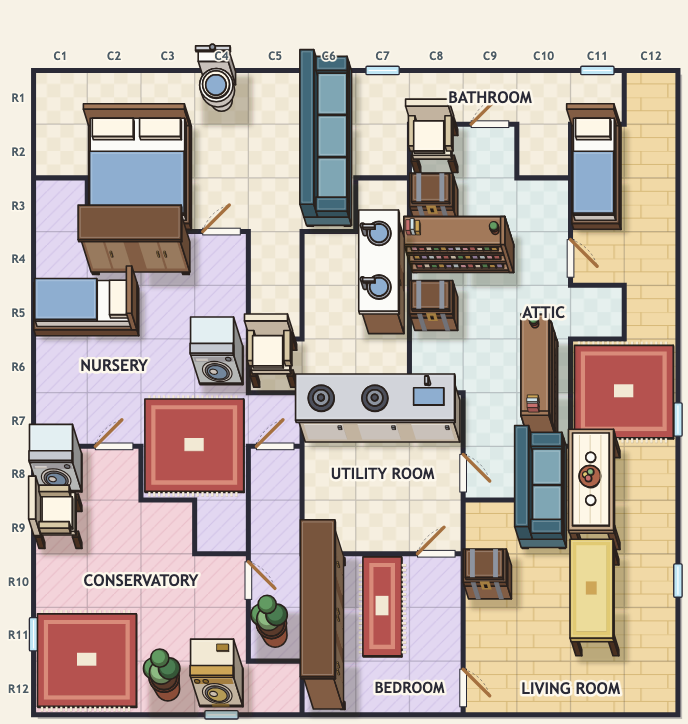
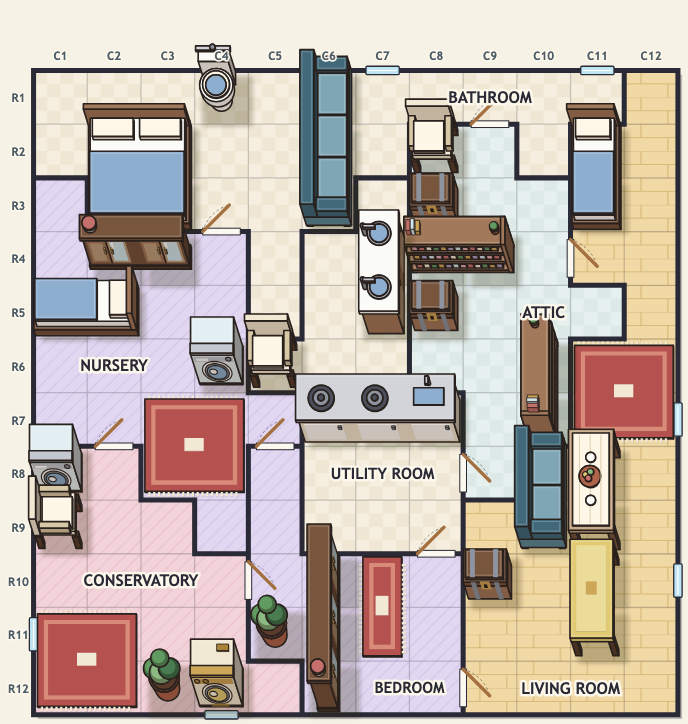
fix(play): board height follows the drawing's aspect (desktop overflow); cabinet and wardrobe redrawn as tall cupboards (SLAY-17.4)
The 44 unit headroom made the board taller than wide while play.css sized it as a square, so the bottom was cut on desktop: boardAspect from the viewBox
is now --board-aspect and every height budget divides by it. The cabinet (the Simpshouse sideboard read flat) is a tall sage-green cupboard with
panelled and glass doors; the wardrobe a walnut one with a mirror door. Cupboards added to the confusable audit. Desktop fit check in the looks driver.

Changed region(s): [[0.4273, 0.6989, 0.5189, 1.0], [0.0916, 0.2735, 0.3052, 0.395]]

diff --git a/docs/verification/looks.ts b/docs/verification/looks.ts
@@ -9,6 +9,8 @@
 //   - the Legend swatches show every object whole (no block, no shadow clipped at the svg edge);
 //   - the play loop through real touch events: a note, undo, an X, a placement, hints 1-3, a complete-but-wrong board, the solved board and
 //     the finish overlay;
+//   - desktop windows (1280x720, 1366x768, 1440x900, 1920x1080, 1280x600) with 6x6, 9x9 and 12x12 boards, row and column numbers on and off: the whole board
+//     (headroom and bottom numbers included) lies inside the window, no page scroll (ONLY=desktop runs just these);
 //   - the room labels draw above people, crosses and notes (DOM order) on a crowded board; screenshots of it.
 // Usage (repo root):
 //   bun run build && bunx vite preview --port 5461 &
@@ -24,7 +26,7 @@ import { puzzleFingerprint } from '../../src/game/fingerprint.ts'
 import { saveKey, SAVE_VERSION } from '../../src/game/persistence.ts'
 import { dailyId } from '../../src/game/daily/ids.ts'
 import { roomLabelLayout } from '../../src/render/scene/labels.ts'
-import { PLAY_DATE, dayOn, seedStorage } from './daily.ts'
+import { DAYS, PLAY_DATE, dayOn, seedStorage } from './daily.ts'
 
 const CHROME = process.env.CHROME ?? '/Applications/Google Chrome.app/Contents/MacOS/Google Chrome'
 const PORT = Number(process.env.CDP_PORT ?? 9561)
@@ -206,6 +208,27 @@ async function paintOrder(date: string) {
     if (!ok) bad.push(`${p.id} before ${o.id}`)
   })
   check(`${day.size}x${day.size}: ${r.objects.length} objects are painted flat first, then by front row and column`, r.objects.length === sc.objects.length && bad.length === 0, bad.slice(0, 4).join('; '))
+}
+
+/** Desktop windows (mouse, no touch): the whole board, headroom and bottom axis labels included, must lie inside the window without page scroll. */
+const DESKTOPS: [number, number][] = [[1280, 720], [1366, 768], [1440, 900], [1920, 1080], [1280, 600]]
+const desktopRows: string[] = []
+async function desktopFit(w: number, h: number) {
+  await send('Emulation.setDeviceMetricsOverride', { width: w, height: h, deviceScaleFactor: 1, mobile: false })
+  await send('Emulation.setTouchEmulationEnabled', { enabled: false })
+  for (const size of [6, 9, 12]) {
+    const day = DAYS.find((d) => d.size === size && d.date > '2026-11-01')!
+    for (const axis of [true, false]) {
+      await seed(day.date, `localStorage.setItem('slaydoku:play-axis-labels', '${axis}')`)
+      await load('play')
+      await sleep(400)
+      const r = (await evaluate(`(() => { const b = document.querySelector('.play-board svg').getBoundingClientRect(); const de = document.documentElement; return { top: b.top, bottom: b.bottom, left: b.left, right: b.right, w: b.width, h: b.height, iw: innerWidth, ih: innerHeight, sh: de.scrollHeight, sw: de.scrollWidth } })()`)) as { top: number; bottom: number; left: number; right: number; w: number; h: number; iw: number; ih: number; sh: number; sw: number }
+      const ok = r.top >= -0.5 && r.bottom <= r.ih + 0.5 && r.left >= -0.5 && r.right <= r.iw + 0.5 && r.sh <= r.ih + 1 && r.sw <= r.iw + 1
+      check(`desktop ${w}x${h} ${size}x${size} axis ${axis ? 'on' : 'off'}: the whole board is inside the window, no page scroll`, ok, JSON.stringify({ top: Math.round(r.top), bottom: Math.round(r.bottom), ih: r.ih, boardW: Math.round(r.w), boardH: Math.round(r.h), sh: r.sh }))
+      desktopRows.push(`| ${w}x${h} | ${size}x${size} | ${axis ? 'on' : 'off'} | ${Math.round(r.w)} x ${Math.round(r.h)} | ${Math.round(r.bottom)} / ${r.ih} | ${ok ? 'fits' : 'CUT'} |`)
+      if (axis && (size === 12 || size === 9) && (w === 1280 && (h === 720 || h === 600))) await shotBoard(`desktop-${w}x${h}-${size}x${size}`, true)
+    }
+  }
 }
 
 const sizes: string[] = []
@@ -427,6 +450,18 @@ async function playLoop(w: number, h: number) {
   await shotBoard(`${LOOK}-${w}x${h}-solved`, true)
 }
 
+if (process.env.ONLY === 'desktop') {
+  for (const [w, h] of DESKTOPS) {
+    ctx = `${w}x${h}`
+    await send('Page.enable')
+    await send('Runtime.enable')
+    await desktopFit(w, h)
+  }
+  await Bun.write(join(OUT, 'desktop-fit.md'), ['| window | board | numbers | board size px | board bottom / window height | |', '|---|---|---|---|---|---|', ...desktopRows, ''].join('\n'))
+  console.log(`\n${failures.length ? 'FAILURES:\n' + failures.join('\n') : 'all checks passed'}`)
+  chrome.kill()
+  process.exit(failures.length ? 1 : 0)
+}
 for (const [w, h] of VIEWPORTS) {
   ctx = `${w}x${h}`
   await setViewport(w, h)
@@ -441,6 +476,11 @@ for (const [w, h] of VIEWPORTS) {
   await playLoop(w, h)
   if (w <= 390) await zoomPlay()
 }
+for (const [w, h] of DESKTOPS) {
+  ctx = `${w}x${h}`
+  await desktopFit(w, h)
+}
+await Bun.write(join(OUT, 'desktop-fit.md'), ['| window | board | numbers | board size px | board bottom / window height | |', '|---|---|---|---|---|---|', ...desktopRows, ''].join('\n'))
 await Bun.write(join(OUT, 'tap-sizes.md'), ['| viewport | board | middle cell, screen px (w x h) | biggest circle in it, px |', '|---|---|---|---|', ...sizes, ''].join('\n'))
 console.log(`\n${failures.length ? 'FAILURES:\n' + failures.join('\n') : 'all checks passed'}`)
 chrome.kill()

diff --git a/src/render/looks/modelsLiving.ts b/src/render/looks/modelsLiving.ts
@@ -133,25 +133,58 @@ export function chest(): SolidModel {
   ])
 }
 
-/** Sideboard: one door per cell with a knob, a top slab and short legs. */
+/**
+ * Cabinet (kast): a tall cupboard, 84 high before what stands on it. A dark plinth, a sage-green painted body (no other furniture is green), panelled
+ * doors under glass doors with a white cross of bars, brass knobs, a crown, and a vase and books on top. The doors, knobs and crown are on the front, the crown
+ * and the things on top show from every side; shallow and centred in its cell. Not a desk (no monitor, no drawers), not a counter (no hob).
+ */
 export function cabinet(cols: number): SolidModel {
   const W = cols * 100
-  const D = 56
-  const prims: Prim[] = [...legs(W, D, 10, C.woodDark, 10, 6), box(6, 4, W - 12, D - 8, 10, 52, C.woodLight), box(2, 0, W - 4, D, 62, 6, C.cream)]
+  const D = 34
+  const prims: Prim[] = [
+    box(6, 2, W - 12, D - 4, 0, 8, C.woodDeep),
+    box(8, 4, W - 16, D - 8, 8, 68, C.greenLight),
+    box(2, 0, W - 4, D, 76, 8, C.green),
+  ]
   for (let i = 0; i < cols; i++) {
-    prims.push(onFront(i * 100 + 14, D - 4, 72, 16, 40, C.cream), onFront(i * 100 + 20, D - 3.2, 60, 22, 28, C.creamLight), box(i * 100 + 74, D - 5, 6, 3, 38, 8, C.gold, 1.5))
+    const x = i * 100
+    prims.push(
+      onFront(x + 14, D - 4, 72, 12, 28, C.green),
+      onFront(x + 20, D - 3.2, 60, 17, 18, C.greenDark),
+      onFront(x + 14, D - 4, 72, 46, 26, C.sky),
+      onFront(x + 48, D - 3.2, 4, 46, 26, C.white),
+      onFront(x + 14, D - 3.2, 72, 57, 3.5, C.white),
+      onFront(x + 20, D - 3, 14, 62, 4, C.white),
+      box(x + 40, D - 6, 6, 4, 36, 7, C.gold, 1.5),
+      box(x + 54, D - 6, 6, 4, 36, 7, C.gold, 1.5),
+    )
   }
-  return model(cols, 1, shiftY(prims, 22))
+  prims.push(cyl(W - 26, D / 2, 7, 84, 8, C.terracotta, 9), ball(W - 26, D / 2, 96 - 4.5, 4, C.green), box(16, 8, 8, D - 16, 84, 10, C.red, 1.5), box(25, 8, 7, D - 16, 84, 8, C.sky, 1.5))
+  return model(cols, 1, shiftY(prims, 32))
 }
 
-/** Wardrobe: a tall body with a crown on top, a pair of doors per cell with knobs, and feet. */
+/**
+ * Wardrobe (kast to hang clothes in): the tallest piece, 96 high, dark walnut with a plinth, a pair of doors per cell (one with a mirror in it, one
+ * with raised panels), brass handles, a crown and hat boxes on top.
+ */
 export function wardrobe(cols: number, rows: number): SolidModel {
   const W = cols * 100
-  const D = rows === 1 ? 64 : rows * 100 - 24
-  const prims: Prim[] = [box(8, 4, W - 16, D - 8, 4, 86, C.wood), box(4, 0, W - 8, D, 90, 6, C.woodDark), box(10, D - 10, 12, 8, 0, 4, C.woodDeep), box(W - 22, D - 10, 12, 8, 0, 4, C.woodDeep)]
+  const D = rows === 1 ? 44 : rows * 100 - 40
+  const prims: Prim[] = [box(6, 2, W - 12, D - 4, 0, 8, C.woodDeep), box(8, 4, W - 16, D - 8, 8, 70, C.woodDark), box(4, 0, W - 8, D, 78, 7, C.woodDark)]
   for (let i = 0; i < cols; i++) {
-    prims.push(onFront(i * 100 + 14, D - 4, 34, 14, 70, C.woodLight), onFront(i * 100 + 52, D - 4, 34, 14, 70, C.woodLight), box(i * 100 + 42, D - 5, 3, 3, 46, 12, C.gold, 1.2), box(i * 100 + 55, D - 5, 3, 3, 46, 12, C.gold, 1.2))
+    const x = i * 100
+    prims.push(
+      onFront(x + 14, D - 4, 34, 16, 56, C.wood),
+      onFront(x + 19, D - 3.2, 24, 22, 44, C.woodLight),
+      onFront(x + 52, D - 4, 34, 16, 56, C.woodLight),
+      onFront(x + 56, D - 3.2, 26, 22, 48, C.glass),
+      onFront(x + 58, D - 3, 5, 54, 14, C.white),
+      onFront(x + 49, D - 4, 2, 14, 60, C.ink),
+      box(x + 42, D - 6, 3, 4, 40, 12, C.gold, 1.2),
+      box(x + 55, D - 6, 3, 4, 40, 12, C.gold, 1.2),
+    )
   }
+  prims.push(cyl(24, D / 2, 12, 85, 8, C.cream, 12), cyl(24, D / 2, 13, 92, 3.5, C.red, 13))
   return model(cols, rows, shiftY(prims, (rows * 100 - D) / 2))
 }
 

diff --git a/src/ui/play/PlayScreen.tsx b/src/ui/play/PlayScreen.tsx
@@ -1,11 +1,11 @@
 import { useEffect, useMemo, useRef, useState } from 'react'
-import type { ReactNode } from 'react'
+import type { CSSProperties, ReactNode } from 'react'
 import type { PortraitLook } from '../../content/cast/index.ts'
 import type { Cell, Puzzle } from '../../engine/model/index.ts'
 import { createGameStore, defaultStorage, isPlaced, type GameStore, type StorageLike } from '../../game/index.ts'
 import { useLocale } from '../../locale/index.ts'
 import type { ThemeIconId } from '../../render/icons/themes/types.ts'
-import type { FloorPattern } from '../../render/scene/index.ts'
+import { boardAspect, type FloorPattern } from '../../render/scene/index.ts'
 import { useAxisLabels } from './axisLabels.ts'
 import { Board } from './Board.tsx'
 import { HELP_CONTENT } from '../../content/help/help.ts'
@@ -230,7 +230,7 @@ export function PlayScreen({ puzzle: given, levelId, title: givenTitle, back, ro
   }
 
   return (
-    <div className="play" data-status={state.status} data-hint={hintLevel !== 0 ? '' : undefined}>
+    <div className="play" data-status={state.status} data-hint={hintLevel !== 0 ? '' : undefined} style={{ '--board-aspect': boardAspect(puzzle.scene, showAxisLabels) } as CSSProperties}>
       <header className="play-header">
         {/* SLAY-9.25: the visible "Back"/"Terug" text is its own span, not a bare text node, so
             the landscape column rule in play.css can drop it (keeping just the "‹") there. On a

diff --git a/src/ui/play/play.css b/src/ui/play/play.css
@@ -321,7 +321,7 @@
   justify-self: center;
   width: 100%;
   /* portrait: never taller than the screen leaves room for (header + cards strip) */
-  max-width: calc(100dvh - 380px);
+  max-width: calc((100dvh - 380px) / var(--board-aspect, 1));
   min-width: 280px;
 }
 
@@ -1175,7 +1175,9 @@ button.play-legend__row:focus-visible {
        header it stacks above the board, its 10px row-gap, its own bottom padding) instead of one
        guessed number -- the old flat 76px undercounted the real total and clipped the board's last
        row. */
-    --board: min(calc(100dvh - var(--play-top-clearance) - var(--play-header-height) - 10px - max(12px, env(safe-area-inset-bottom))), 64vw);
+    /* The board is --board wide and --board * --board-aspect high (PlayScreen sets the aspect from the drawing's own viewBox: the headroom above the
+       grid makes it taller than wide), so the height budget is divided by it. */
+    --board: min(calc((100dvh - var(--play-top-clearance) - var(--play-header-height) - 10px - max(12px, env(safe-area-inset-bottom))) / var(--board-aspect, 1)), 64vw);
     height: 100vh;
     height: 100dvh;
     overflow: hidden;
@@ -1422,7 +1424,7 @@ button.play-legend__row:focus-visible {
   }
 
   .play {
-    --board: var(--play-board);
+    --board: calc(var(--play-board) / var(--board-aspect, 1));
     gap: 8px 12px;
     padding-bottom: max(8px, env(safe-area-inset-bottom));
     grid-template-rows: auto auto minmax(0, 1fr);

diff --git a/src/render/icons/contactSheetData.ts b/src/render/icons/contactSheetData.ts
@@ -24,6 +24,7 @@ export function orientedSolid(type: IconObjectType, themeIcon: ThemeIconId | und
 export const CONFUSABLE_GROUPS: readonly { title: string; items: readonly { type: IconObjectType; themeIcon?: ThemeIconId; variant: string }[] }[] = [
   { title: 'Rug, table and bookshelf', items: [{ type: 'rug', variant: '2x1' }, { type: 'table', variant: '2x1' }, { type: 'bookshelf', variant: '2x1' }] },
   { title: 'Tables: table, dining table, garden table, desk', items: [{ type: 'table', variant: '2x1' }, { type: 'diningTable', variant: '2x1' }, { type: 'gardenTable', variant: '2x1' }, { type: 'desk', variant: '2x1' }] },
+  { title: 'Cupboards and counters: cabinet, wardrobe, desk, kitchen counter, bookshelf', items: [{ type: 'cabinet', variant: '2x1' }, { type: 'wardrobe', variant: '2x1' }, { type: 'desk', variant: '2x1' }, { type: 'kitchenCounter', variant: '2x1' }, { type: 'bookshelf', variant: '2x1' }] },
   { title: 'Storage: cabinet, wardrobe, chest', items: [{ type: 'cabinet', variant: '2x1' }, { type: 'wardrobe', variant: '2x1' }, { type: 'chest', variant: '1x1' }] },
   { title: 'Laundry: washing machine and dryer', items: [{ type: 'washingMachine', variant: '1x1' }, { type: 'dryer', variant: '1x1' }] },
   { title: 'Bathroom: toilet, sink, shower', items: [{ type: 'toilet', variant: '1x1' }, { type: 'sink', variant: '1x1' }, { type: 'shower', variant: '1x1' }] },

diff --git a/src/render/scene/geometry.test.ts b/src/render/scene/geometry.test.ts
@@ -5,6 +5,7 @@ import {
   AXIS_GUTTER,
   CELL_SIZE,
   MARGIN,
+  boardAspect,
   cellLabel,
   createGeometry,
 } from './geometry.ts'
@@ -45,6 +46,21 @@ describe('createGeometry', () => {
     const g = createGeometry({ width: 4, height: 4 })
     expect(g.origin.y).toBe(MARGIN + HEADROOM)
     expect(HEADROOM).toBeGreaterThan(30)
+  })
+
+  it('derives the height over width of the drawing from the viewBox, headroom included', () => {
+    for (const size of [6, 7, 9, 12]) {
+      for (const axis of [true, false]) {
+        const gutter = axis ? AXIS_GUTTER : 0
+        const grid = size * CELL_SIZE
+        const width = 2 * MARGIN + gutter + grid
+        expect(boardAspect({ width: size, height: size }, axis)).toBeCloseTo((2 * MARGIN + gutter + HEADROOM + grid) / width, 10)
+        expect(boardAspect({ width: size, height: size }, axis)).toBeGreaterThan(1)
+      }
+    }
+    // A 9x9 board with the numbers on is 7 percent taller than wide; a 12x12 board 5.4 percent.
+    expect(boardAspect({ width: 9, height: 9 }, true)).toBeCloseTo(1.07, 2)
+    expect(boardAspect({ width: 12, height: 12 }, true)).toBeCloseTo(1.054, 3)
   })
 
   it('formats 1-based cell labels', () => {

diff --git a/src/ui/play/PlayScreen.test.tsx b/src/ui/play/PlayScreen.test.tsx
@@ -508,3 +508,13 @@ describe('the hint bar slot in the play grid (CAD-4.34 layout stays)', () => {
     expect(css.match(/\.play-hint \{[^}]*\}/)?.[0]).toContain('grid-area: hint')
   })
 })
+
+describe('the board fits the screen (SLAY-17.4)', () => {
+  it("hands the drawing's height over width to the layout, and play.css divides every height budget by it", async () => {
+    const html = renderToStaticMarkup(<PlayScreen puzzle={tutorial} levelId="test" storage={null} now={() => 0} />)
+    expect(html).toMatch(/class="play"[^>]*style="--board-aspect:1\.\d+/)
+    const css = (await import('node:fs')).readFileSync(new URL('./play.css', import.meta.url), 'utf8')
+    // Portrait width cap, landscape --board and short landscape --board: each one reads the aspect.
+    expect(css.match(/var\(--board-aspect, 1\)/g)?.length).toBe(3)
+  })
+})

diff --git a/src/render/scene/geometry.ts b/src/render/scene/geometry.ts
@@ -79,6 +79,15 @@ export function createGeometry(size: Pick<Scene, 'width' | 'height'>, options: G
   }
 }
 
+/**
+ * Height over width of the drawing (its viewBox) for a board of `size`. A bare square grid would be 1; the headroom above the grid makes it a
+ * little more, so the layout (play.css reads it as `--board-aspect`) can divide the height it has by it and never cut off the bottom row.
+ */
+export function boardAspect(size: Pick<Scene, 'width' | 'height'>, axisLabels: boolean): number {
+  const { width, height } = createGeometry(size, { axisLabels }).viewBox
+  return height / width
+}
+
 /** 1-based "r1c1" notation used by the official puzzles. */
 export function cellLabel(cell: Cell): string {
   return `r${cell.row + 1}c${cell.col + 1}`

diff --git a/src/render/scene/index.ts b/src/render/scene/index.ts
@@ -3,6 +3,7 @@ export {
   AXIS_GUTTER,
   CELL_SIZE,
   cellLabel,
+  boardAspect,
   createGeometry,
   GRID_LINE_WIDTH,
   MARGIN,

diff --git a/docs/design/looks.md b/docs/design/looks.md
@@ -139,7 +139,8 @@ Contact sheet at phone size (36 px per cell), section "Easily mistaken for each 
 
 | Pair | Problem | Fix |
 |---|---|---|
-| bookshelf, wardrobe, cabinet (all tall brown boxes) | Top face of a 90 high box is as big as its front; turned away, three look the same | Shallow depth (bookshelf 52, cabinet 56, wardrobe 64) centred in the cell; bookshelf has books and a plant on top (visible from every side) and open shelves with spines; cabinet is light wood with cream doors and a cream top; wardrobe is dark with a crown and two doors per cell |
+| bookshelf, wardrobe, cabinet (all tall brown boxes) | Top face of a 90 high box is as big as its front; turned away, three look the same; the first cabinet (a low cream slab) read as flat (owner, Simpshouse day 2026-10-14) | Shallow depth (bookshelf 52, cabinet 34, wardrobe 44) centred in the cell; bookshelf has open shelves with book spines and books and a plant on top; **cabinet** is a tall sage-green painted cupboard (no other furniture is green) with a plinth, panelled lower doors, glass upper doors with white bars, brass knobs, a crown and a vase and books on top; **wardrobe** is dark walnut with a crown, a panelled and a mirror door per cell, brass handles and hat boxes on top |
+| cabinet, wardrobe, desk, kitchen counter, bookshelf | A cupboard must not read as a desk or a counter | Added as its own group on the phone-size sheet: the desk has a monitor and a drawer pedestal on legs, the counter a hob and a stone top, the cabinet and wardrobe are closed fronts with doors, differing in colour and height |
 | rug, table, bookshelf | Rug and table both a flat rectangle from above | Rug is 3 high with a coloured border, fringe and medallion and no legs; table stands on four legs with a thick gold top; bookshelf is tall with books (all three side by side on the sheet) |
 | table, dining table, garden table, desk | Four tops on legs | Colour and one clear object each: gold inlay, pale top with fruit bowl and plates, green metal (round on one cell), desk with a monitor and a drawer pedestal |
 | washing machine, dryer | Same box | Cool white body, blue porthole, dial and drawer vs warm cream body, amber porthole, vent slats, lint trap on top |
@@ -149,6 +150,8 @@ Contact sheet at phone size (36 px per cell), section "Easily mistaken for each 
 | bubble bath, bathtub model | Water must read as water | Blue block under the rim, light sheen strip, foam balls (tested in `looks.test.tsx`) |
 
 The app has **no bath object kind** (nothing was added): the bathtub model lives in `modelsHouse.ts` (`MODEL_ONLY` in the registry) and shows on the contact sheet; the Simpshouse `bubbleBath` is the only tub on a board and uses the same water.
+
+Desktop fit (owner bug, 2026-10-08): the headroom made the drawing 5.4 to 10.1 percent taller than wide while play.css sized the board as a square (width = the height budget), so the bottom was cut off on desktop. `boardAspect` (`geometry.ts`) gives height over width from the same viewBox, `PlayScreen` writes it as `--board-aspect` and play.css divides every height budget by it (portrait cap, landscape `--board`, short landscape `--board`); the board is as high as before and about 7 percent narrower. `docs/verification/looks.ts` (`desktopFit`, `ONLY=desktop` for just these) checks 1280x720, 1366x768, 1440x900, 1920x1080 and 1280x600 with 6x6, 9x9 and 12x12, numbers on and off: the whole board inside the window, no page scroll. Before/after screenshots: `desktop-*-before-fix.png`, `desktop-*-after-fix.png`.
 
 Known limit of the view: a tall piece turned so that its long side runs north to south shows its top and a narrow right side (the oblique view skews by 0.22), so doors and shelves on that side are slivers; hence the things on top and the colours above.
 
